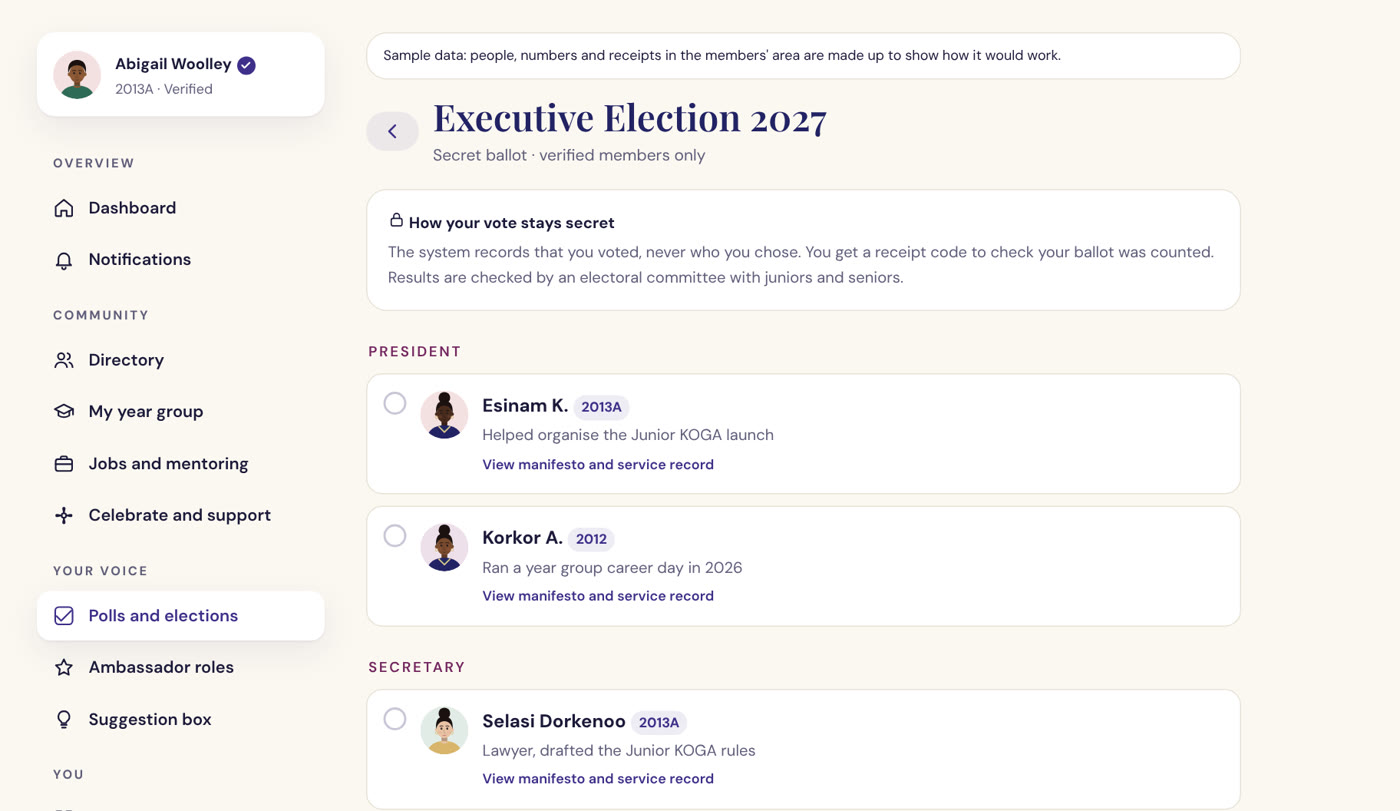
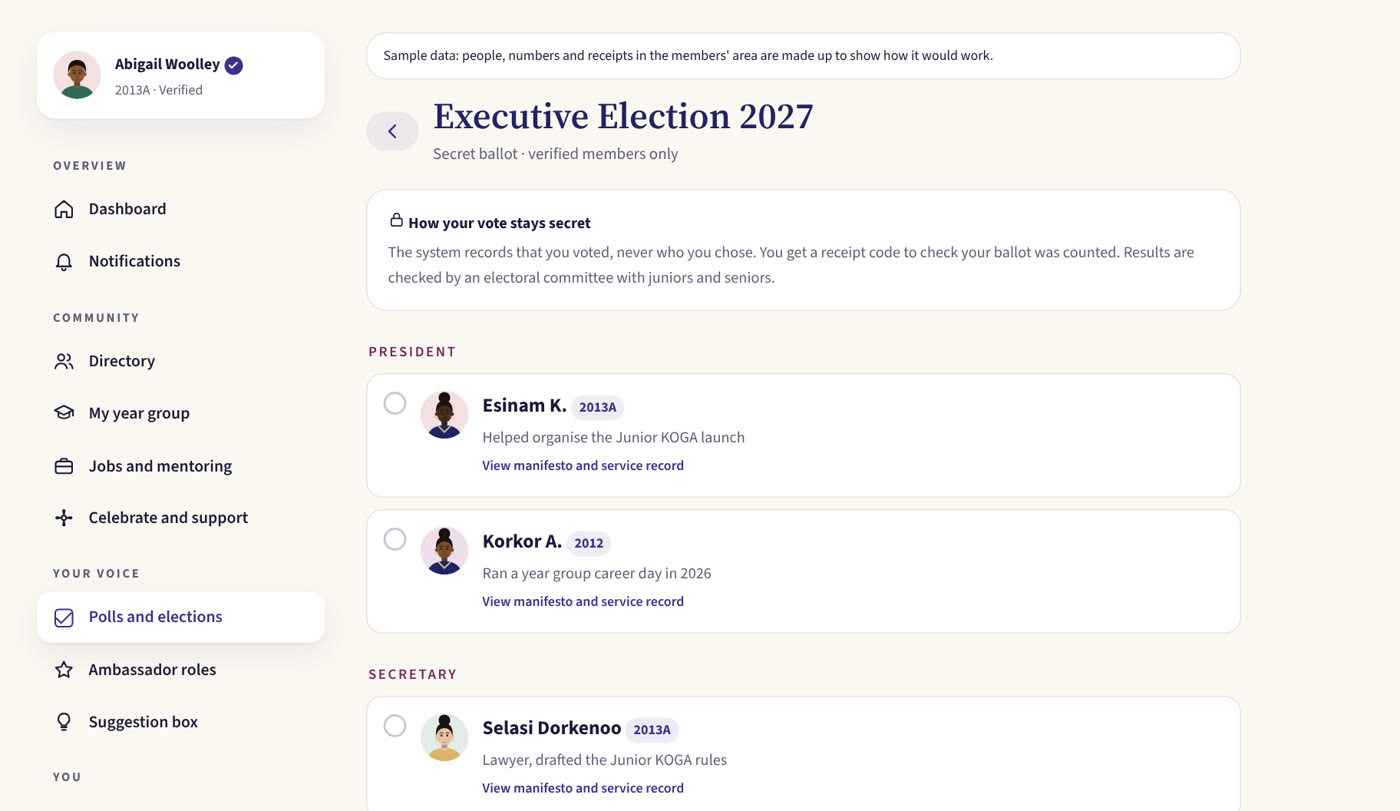
Switch to Source Serif 4 and Source Sans 3 typography

diff --git a/index.html b/index.html
@@ -28,7 +28,7 @@
 <meta name="claude:viewport-fit-sides" content="cover">
 <meta name="theme-color" content="#222365">
 <link rel="preconnect" href="https://fonts.googleapis.com">
-<link href="https://fonts.googleapis.com/css2?family=Playfair+Display:ital,wght@0,500;0,600;0,700;1,500&family=DM+Sans:opsz,wght@9..40,400;9..40,500;9..40,600;9..40,700&display=swap" rel="stylesheet">
+<link href="https://fonts.googleapis.com/css2?family=Source+Serif+4:ital,opsz,wght@0,8..60,400..700;1,8..60,400..700&family=Source+Sans+3:ital,wght@0,400..700;1,400..700&display=swap" rel="stylesheet">
 <style>
 /* Layout: desktop-first school/alumni site. Full-bleed bands, 1200px content column, members' area as a sidebar app behind login. */
 :root{
@@ -53,9 +53,9 @@
   --gold:var(--bronze); --gold-2:var(--champagne); --gold-soft:var(--cream); --wine:var(--plum);
   --ink-c:var(--text);
 
-  --serif:'Playfair Display',Georgia,'Times New Roman',serif;
-  --sans:'DM Sans',system-ui,-apple-system,'Segoe UI',Roboto,sans-serif;
-  --s-hero:clamp(40px,5.2vw,68px); --s-h2:clamp(30px,3.4vw,44px); --s-h3:22px; --s-body:16px; --s-small:14px; --s-eyebrow:12px;
+  --serif:'Source Serif 4',Georgia,'Times New Roman',serif;
+  --sans:'Source Sans 3',system-ui,-apple-system,'Segoe UI',Roboto,sans-serif;
+  --s-hero:clamp(40px,5.2vw,68px); --s-h2:clamp(30px,3.4vw,44px); --s-h3:22px; --s-body:17px; --s-small:15px; --s-eyebrow:12px;
   --r:18px; --shadow:0 1px 2px rgba(34,35,101,.06),0 10px 30px rgba(34,35,101,.08); --shadow-lg:0 30px 60px -20px rgba(22,22,74,.35);
   --wrap:1200px;
   color-scheme:light;
